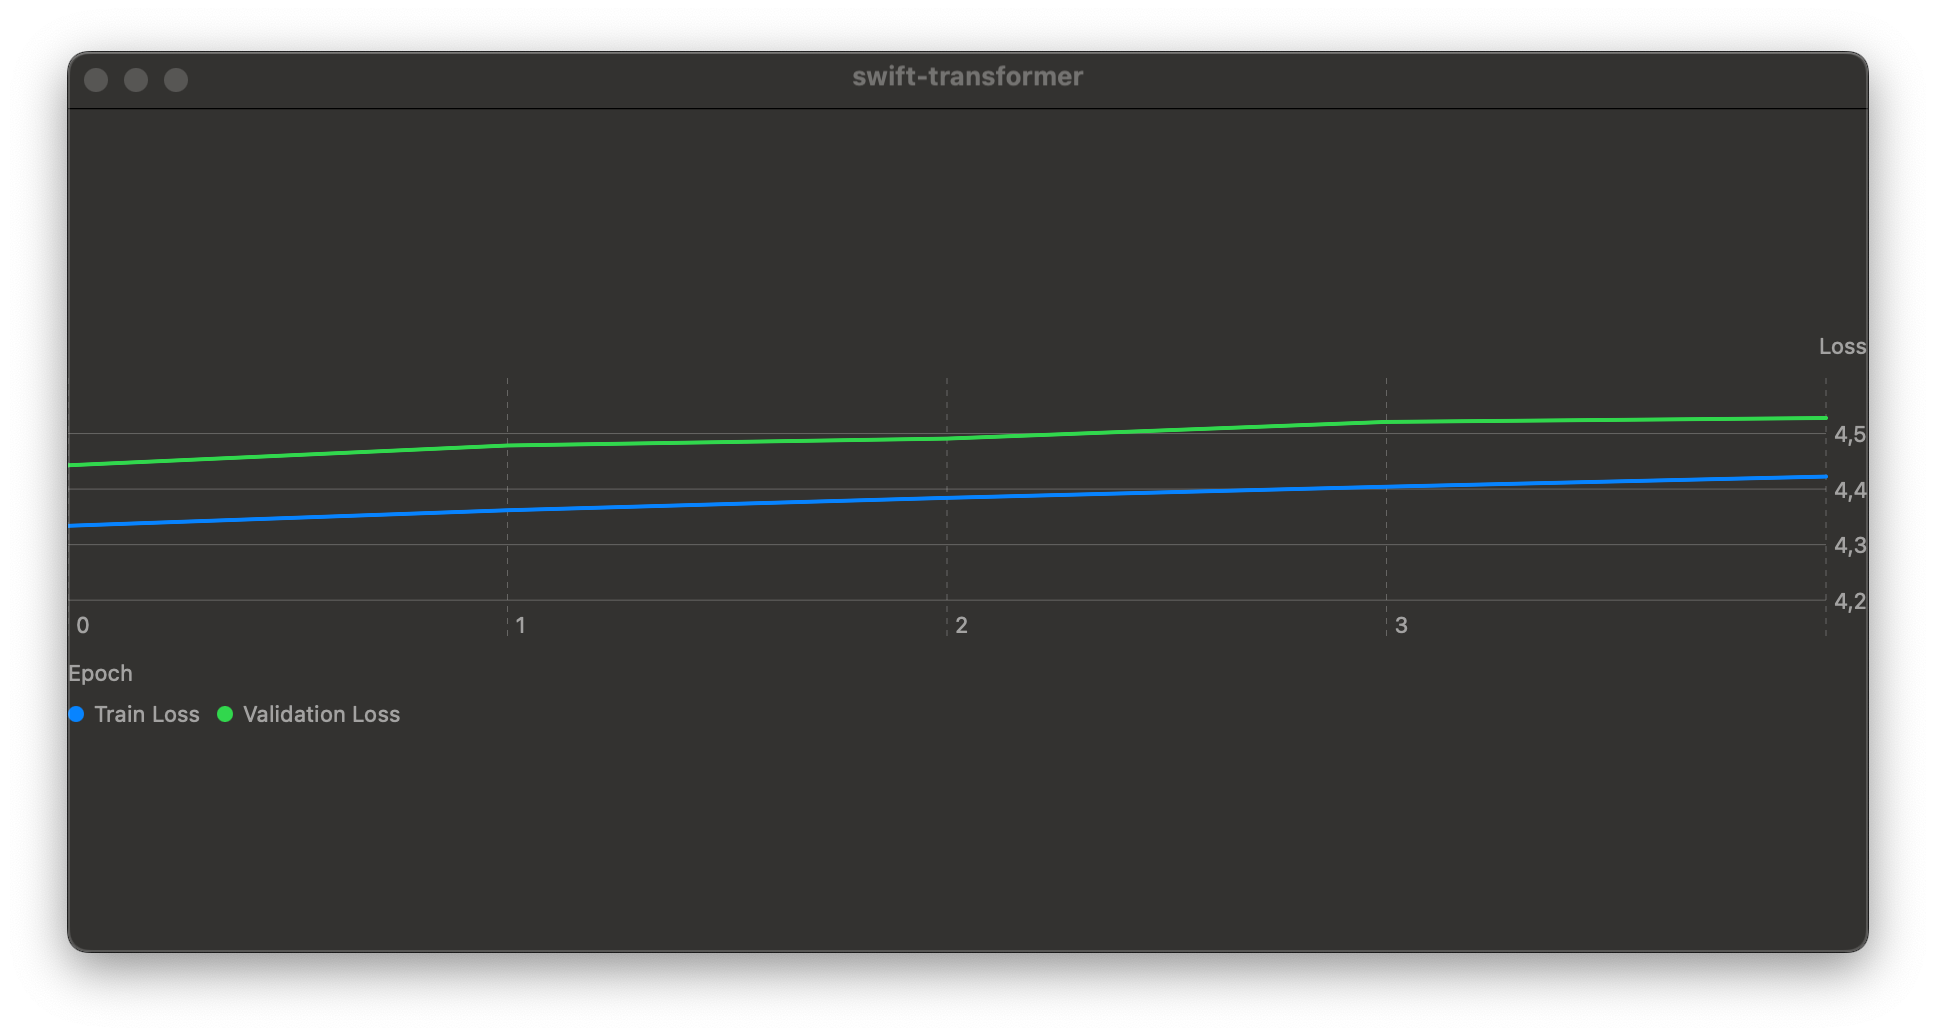
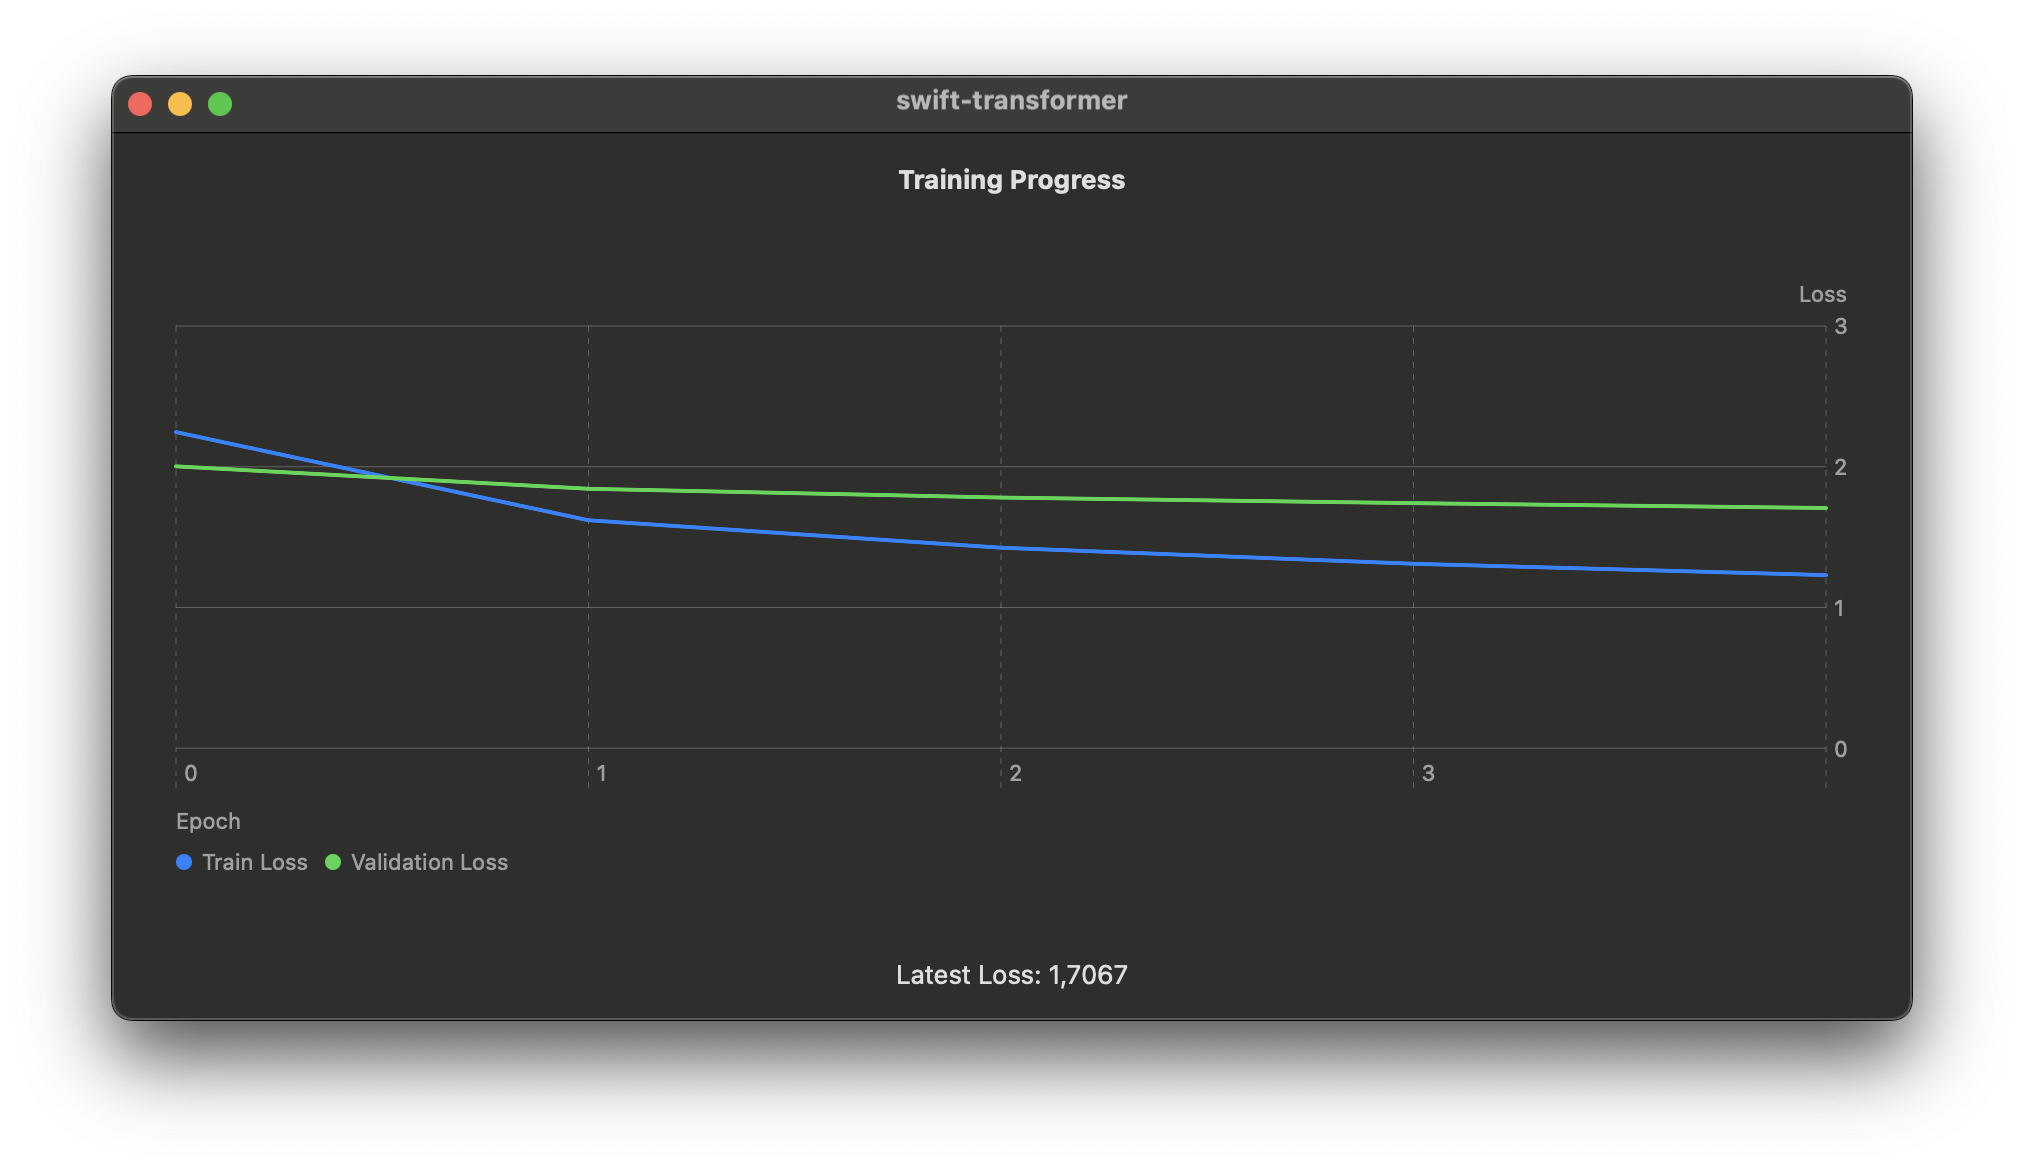
final additions

Changed region(s): [[0.031, 0.0309, 0.9917, 0.9575], [0.4339, 0.1236, 0.5579, 0.1853]]

diff --git a/swift-transformer/swift-transformer/ContentView.swift b/swift-transformer/swift-transformer/ContentView.swift
@@ -6,21 +6,31 @@ struct ContentView: View {
     
     var body: some View {
         VStack {
-            // Use Swift Charts to plot the graph
-            Chart(viewModel.lossData) {
-                LineMark(
-                    x: .value("Epoch", $0.epoch),
-                    y: .value("Loss", $0.loss)
-                )
-                .foregroundStyle(by: .value("Series", $0.series)) // Differentiate lines by series
+            Text("Training Progress")
+                .font(.headline)
+                .padding()
+            
+            if viewModel.lossData.isEmpty {
+                ProgressView("Waiting for training data...")
+            } else {
+                Chart(viewModel.lossData) {
+                    LineMark(
+                        x: .value("Epoch", $0.epoch),
+                        y: .value("Loss", $0.loss)
+                    )
+                    .foregroundStyle(by: .value("Series", $0.series))
+                }
+                .frame(height: 300)
+                .padding()
+                .chartXAxisLabel("Epoch")
+                .chartYAxisLabel("Loss")
+                // Remove fixed Y-axis range to allow dynamic scaling
+                .chartLegend(position: .bottom)
             }
-            .frame(height: 200)
-            .chartXAxisLabel("Epoch")
-            .chartYAxisLabel("Loss")
-            .chartYScale(domain: 4.2...4.6) // Adjust the y-axis range
             
-            
+            Text("Latest Loss: \(viewModel.lossData.last?.loss ?? 0, specifier: "%.4f")")
+                .padding()
         }
+        .padding()
     }
-    
 }

diff --git a/swift-transformer/swift-transformer/swift_transformerApp.swift b/swift-transformer/swift-transformer/swift_transformerApp.swift
@@ -84,7 +84,7 @@ class TransformerViewModel: ObservableObject {
         let (trainLossHistory, valLossHistory) = model.fit(
             trainData: trainData,
             valData: valData,
-            epochs: 20,
+            epochs: 5,
             saveEveryEpochs: 20,
             savePath: ".",
             validationCheck: true

diff --git a/performance data/README.md b/performance data/README.md
@@ -6,7 +6,7 @@ Additionally, you can access a comprehensive set of detailed measurements in the
 
 [View Performance Measurement Files](https://drive.google.com/drive/folders/1l94hx23KmZ6R0HTXCil01ruhZi1YzL-g?usp=share_link)
 
-## Performance Comparison (MacBook Pro with M1 Pro CPU, 32 GB LPDDR5 RAM, macOS Sequoia 15.0.1)
+## Performance Comparison (MacBook Pro with M1 Pro CPU, 32 GB LPDDR5 RAM, macOS Sequoia 15.0.1)*
 
 #### Training:
 
@@ -34,7 +34,8 @@ Additionally, you can access a comprehensive set of detailed measurements in the
 - **227 Batches, Epoch 5/5 (Swift)**: Testing completed in 36.33 seconds
 - **227 Batches, Epoch 5/5 (Python)**: Testing completed in 219 seconds
 
-
 #### Summary:
 
 On average, the Swift variant is approximately **36.75×** faster during training and **26.12×** faster during testing compared to the Python variant.
+
+##### * It’s worth noting, however, that MLX operates on GPUs by default. The Python version utilizes either NumPy or CuPy. One is CPU-based, while the other is limited to NVIDIA GPUs, which Macs don’t support.

diff --git a/README.md b/README.md
@@ -18,7 +18,9 @@ Based on the original Numpy-Transformer project by AmritanshuV. [Link](https://g
 
 #### Summary:
 
-On average, the Swift variant is approximately **36.75×** faster during training and **26.12×** faster during testing compared to the Python variant.
+On average, the Swift variant is approximately **36.75×** faster during training and **26.12×** faster during testing compared to the Python variant.*
+
+* It’s worth noting, however, that MLX operates on GPUs by default. The Python version utilizes either NumPy or CuPy. One is CPU-based, while the other is limited to NVIDIA GPUs, which Macs don’t support.
 
 ## Loss History Graph
 
